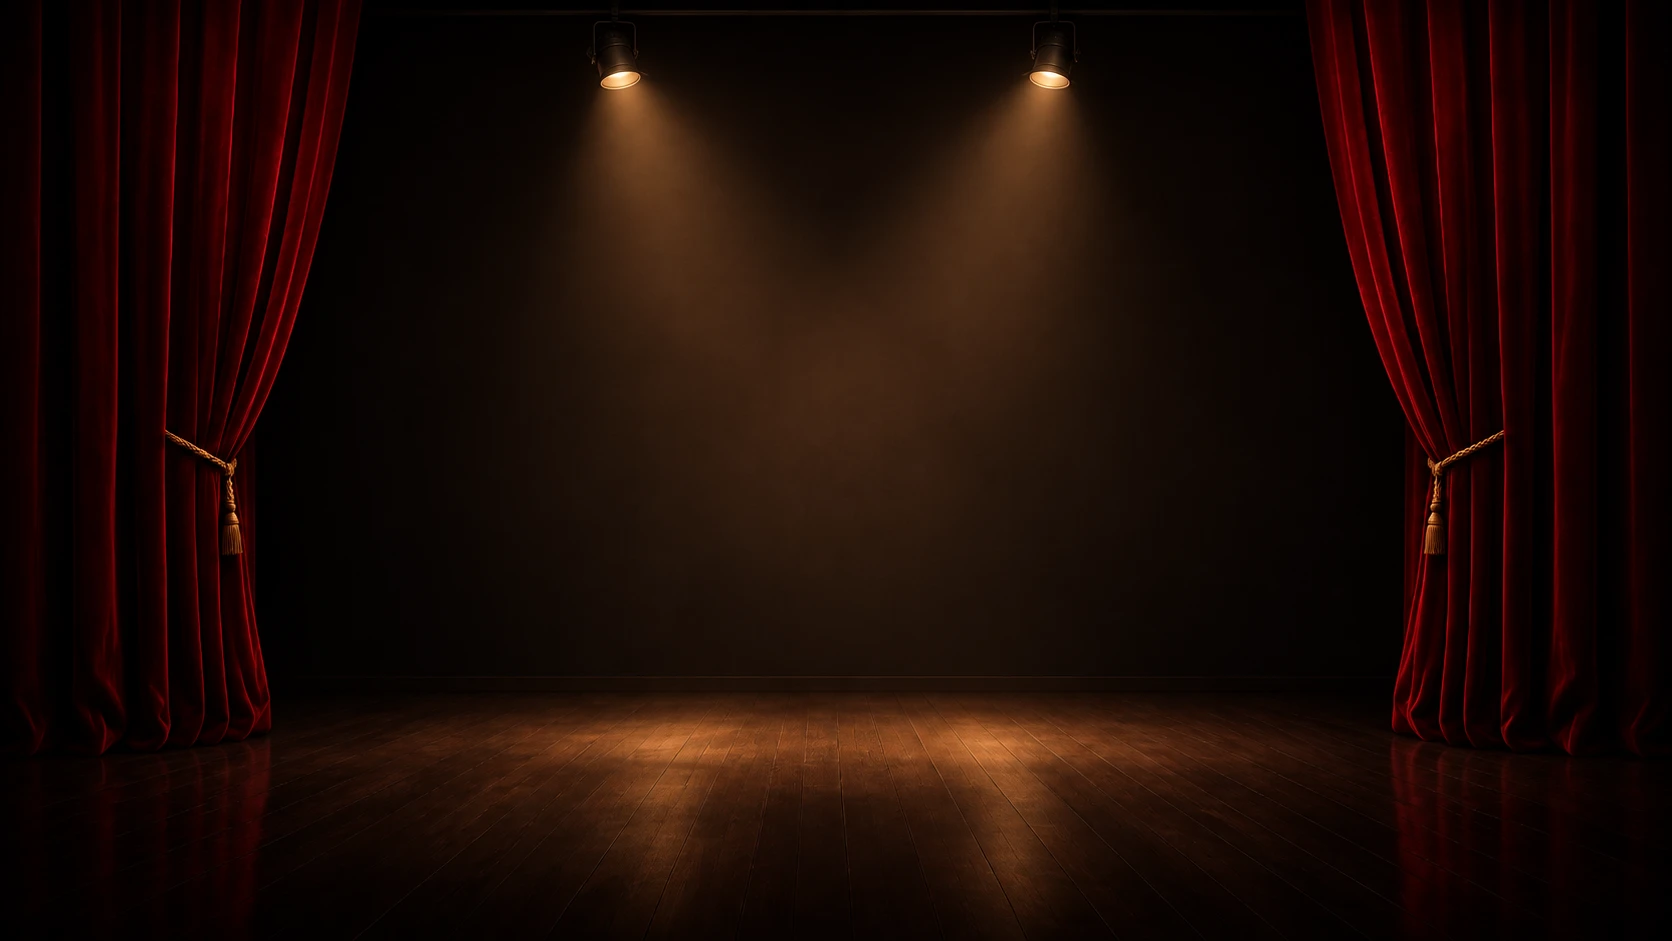
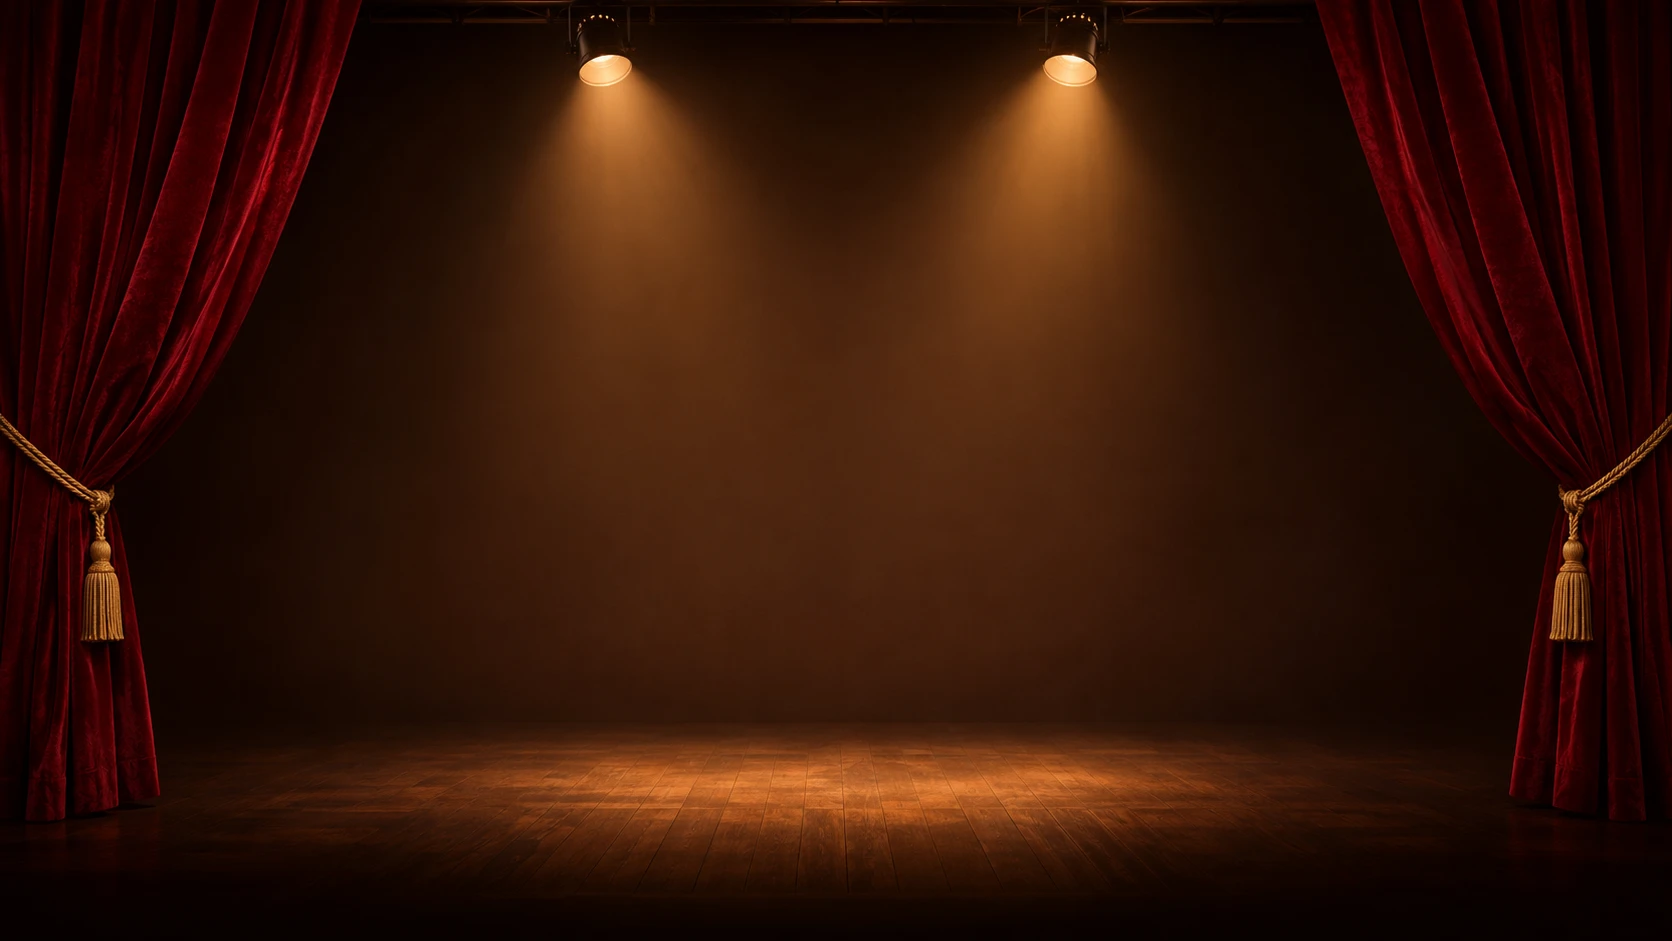
v150: 공개 플레이 주소에 게임 파일 올리기

diff --git a/js/ui.js b/js/ui.js
@@ -730,11 +730,7 @@ function dreamLine(s) {
   return d === '없음' ? '장래희망은 없었다' : `장래희망은 ${josa(d, '이가')} 되는 것이었다`;
 }
 // ───── 인생 결산 창 (12-5) ─────
-// 가운데 정렬 배치(예전 시안 C)에 밝은 색과 무대의 막을 입혔다. 색 조합만 다른 시안 세 가지 (A 붉은 막 · B 푸른 막 · C 보랏빛 막). 사용자가 고르면 나머지는 지운다
-// 머리(이름 · 칭호 · 주 직업 테마) → 숫자 → 해마다 그래프 → 대표작 → 트로피 선반 → 걸어온 길(세로 줄) → 인연 → 자녀
-// P 사진 무대(v149): 사용자가 준 무대 사진(img/ending/stage.webp)을 머리에 그대로 쓰고, 아래는 무대 바닥에서 이어지는 어두운 바탕
-const END_STYLES = [['P', '사진 무대'], ['A', '붉은 막'], ['B', '푸른 막'], ['C', '보랏빛 막']];
-function endStyle() { if (!UI.endStyle) { try { UI.endStyle = localStorage.getItem('celebLife.endStyle2') || 'P'; } catch (e) { UI.endStyle = 'P'; } } return UI.endStyle; }
+// 모양은 '사진 무대' 하나로 정했다 (v150, 사용자 결정): 사용자가 만든 무대 그림(img/ending/stage.webp)을 머리에 깔고, 아래는 무대 바닥에서 이어지는 어두운 바탕에 금빛 글씨
 // 그래프 자료: 해마다 기록이 있으면 그것, 없으면(예전 세이브) 작품 수입으로 번 돈만 어림한다
 function endYears(s) {
   // 팬도 번 돈도 없던 어린 시절은 그래프에서 뺀다 (처음 무언가 생기기 바로 전 해부터)
@@ -777,7 +773,7 @@ function showEnding(preview) {
   else if (preview !== 'keep') UI.endPrev = null;
   const ep = s.ended || UI.endPrev;
   if (!ep) return;
-  const p = me(s), st = endStyle(), M = endMain(s), handoff = ep.kind === 'handoff', pv = !!ep.preview;
+  const p = me(s), M = endMain(s), handoff = ep.kind === 'handoff', pv = !!ep.preview;
   // 아이가 태어나자마자 넘어간 경우에는 그 아이로만 이어 할 수 있다
   const heirs = ep.heir ? kids(s).filter(k => k.id === ep.heir) : kids(s);
   const jobs = new Set((s.careerLog || []).map(c => c.id).concat(Object.keys(s.carOn || {}))).size;
@@ -785,9 +781,8 @@ function showEnding(preview) {
   const sub = [M && ep.kind !== 'fail' ? `${M.ic} ${M.n}${CAREERS[M.id].title && CAREERS[M.id].title(s, s.tracks[M.id]) ? ' · ' + CAREERS[M.id].title(s, s.tracks[M.id]) : ''}` : '', dreamLine(s)].filter(Boolean).join(' / ');
   const years = pv ? `${s.birthYear}년생 · 지금 ${age(s)}세 (지금 은퇴한다면)` : `${s.birthYear}년생 · ${handoff ? `${ep.retireAge}세에 아이에게 넘김` : `${ep.retireAge}세 ${ep.kind === 'fail' ? '꿈을 접음' : '은퇴'} · ${ep.deathAge}세에 세상을 떠남`}`;
   const badges = endBadges(s);
-  let h = `<div class="en-pick"><span>시안</span>${END_STYLES.map(([k, n]) => `<button class="${k === st ? 'on' : ''}" data-endstyle="${k}">${k} ${n}</button>`).join('')}</div>`;
-  h += `<div class="en en-cur cv-${st} th-${ep.kind === 'fail' ? 'none' : M ? M.cat : 'none'} k-${ep.kind}">`;
-  h += `<header class="en-hero"><i class="en-val"></i><i class="en-drape l"></i><i class="en-drape r"></i><div class="en-kicker">${handoff ? '이야기를 넘기며' : '인생 결산'}</div><div class="en-name">${U.esc(p.name)}</div><div class="en-title">${U.esc(title)}</div>${sub ? `<div class="en-sub">${U.esc(sub)}</div>` : ''}<div class="en-years">${years}</div>`
+  let h = `<div class="en en-cur cv-P th-${ep.kind === 'fail' ? 'none' : M ? M.cat : 'none'} k-${ep.kind}">`;
+  h += `<header class="en-hero"><div class="en-kicker">${handoff ? '이야기를 넘기며' : '인생 결산'}</div><div class="en-name">${U.esc(p.name)}</div><div class="en-title">${U.esc(title)}</div>${sub ? `<div class="en-sub">${U.esc(sub)}</div>` : ''}<div class="en-years">${years}</div>`
     + (badges.length ? `<div class="en-badges">${badges.map(([ic, n]) => `<span>${ic} ${n}</span>`).join('')}</div>` : '') + (last ? `<div class="en-last">${U.esc(last)}</div>` : '') + `</header>`;
   h += `<div class="en-body"><div class="en-col1">`;
   const tiles = [['👥', '가장 많을 때 팬', fmtFans(s.peak.fans)], ['💰', '업계에서 번 돈', endWon(s.earned)], ['🏆', '받은 상', `${s.awards.length}개`], ['🎬', '작품', `${s.works.length}개`], ['💼', '해 본 일', `${jobs}가지`], ['👶', '자녀', `${kids(s).length}명`]];
@@ -1675,7 +1670,7 @@ function panelMenu() {
     <button class="btn" data-panel="pastecode">세이브 코드 붙여넣기</button>
     <button class="btn" id="m-export">세이브 파일로 내보내기 (PC에서만)</button>
     <button class="btn" id="m-import">세이브 파일 불러오기</button>
-    <button class="btn" data-endprev>인생 결산 창 미리 보기 (시안 고르기)</button>
+    <button class="btn" data-endprev>인생 결산 창 미리 보기</button>
     <button class="btn" data-logsize="1">인생 기록 글자 크게</button>
     <button class="btn" data-logsize="-1">인생 기록 글자 작게</button>
     <div class="lv-set"><span>실시간 창</span>${LIVE_MODES.map(([k, n]) => `<button class="btn sm${liveMode() === k ? ' primary' : ''}" data-livemode="${k}">${n}</button>`).join('')}</div>
@@ -1688,7 +1683,9 @@ function panelHall() {
   const h = getHall();
   let x = `<h2>지난 인생들</h2>`;
   if (!h.length) return x + `<div class="muted">아직 끝난 인생이 없다.</div>`;
-  for (const e of h) x += `<div class="npc"><div class="npc-h"><b>${U.esc(e.name)} <span class="muted" style="font-weight:500">${e.by}년생 · ${e.kind === 'handoff' ? `${e.retireAge}세에 아이에게 넘김` : `${e.retireAge}세 은퇴 · ${e.deathAge}세 사망`}</span></b><span class="rel">${U.esc(e.title)}</span></div><div class="npc-d">${(e.lines || []).slice(0, 3).map(U.esc).join(' ')}</div></div>`;
+  // 결산 창과 같은 모양의 작은 카드 (v150): 무대 그림 위에 이름 · 칭호, 아래에 숫자 셋
+  x += `<div class="hall-list">` + h.map(e => `<div class="hall-c"><div class="hall-top"><div class="hall-n">${U.esc(e.name)}</div>${e.title ? `<div class="hall-t">${U.esc(e.title)}</div>` : ''}<div class="hall-y">${e.by}년생 · ${e.kind === 'handoff' ? `${e.retireAge}세에 아이에게 넘김` : `${e.retireAge}세 ${e.kind === 'fail' ? '꿈을 접음' : '은퇴'} · ${e.deathAge}세에 떠남`}${e.gen > 1 ? ` · ${e.gen}대째` : ''}</div></div>`
+    + `<div class="hall-nums"><div><b>${fmtFans(e.peakFans || 0)}</b><span>가장 많을 때 팬</span></div><div><b>${endWon(e.earned || 0)}</b><span>번 돈</span></div><div><b>${e.awards || 0}개</b><span>받은 상</span></div></div></div>`).join('') + `</div>`;
   return x;
 }
 function panelHelp() {
@@ -1788,8 +1785,7 @@ document.addEventListener('click', e => {
   if (t.id === 'btn-newlife2' || t.id === 'end-new') { clearSave(); closeAll(); showBirth(); return; }
   if (t.id === 'end-title') { closeAll(); showTitle(); return; }
   if (t.dataset.endclose != null) { $('#modal').classList.add('hidden'); UI.endPrev = null; return; }
-  // 결산 창 시안 바꾸기 (고르시면 이 줄은 없앤다) · 메뉴의 미리 보기
-  if (t.dataset.endstyle) { UI.endStyle = t.dataset.endstyle; try { localStorage.setItem('celebLife.endStyle2', UI.endStyle); } catch (e) { } showEnding('keep'); return; }
+  // 메뉴의 결산 창 미리 보기
   if (t.dataset.endprev != null) { closePanel(); showEnding(true); return; }
   if (t.dataset.confirm != null) { $('#confirm').classList.add('hidden'); const f = UI.onConfirm; UI.onConfirm = null; if (t.dataset.confirm === '1' && f) f(); return; }
   // 특기 그만두기 (v101 · v102 이름 바뀜): 지금 하는 직업의 대표 특기는 못 그만둔다. 다시 배우면 1레벨부터

diff --git a/style.css b/style.css
@@ -1119,27 +1119,16 @@ kbd { font: inherit; font-size: 11px; font-weight: 700; padding: 1px 6px; border
 }
 
 
-/* ───── 인생 결산 창 (12-5): 뮤지컬 무대의 막. 밝은 바탕에 가운데 정렬. 색 조합만 다른 시안 세 가지 (cv-A 붉은 막 · cv-B 푸른 막 · cv-C 보랏빛 막) ───── */
+/* ───── 인생 결산 창 (12-5): 사진 무대 하나로 정함 (v150). 가운데 정렬. 색은 아래 .en.cv-P가 정한다 ───── */
 /* 주 직업 분야(th-*)는 머리 가운데의 그림 글자만 바꾼다. 색은 시안이 정한다 */
 #mcard.ending { max-width: 860px; }
-.en-pick { display: flex; gap: 6px; align-items: center; justify-content: flex-end; margin-bottom: 8px; font-size: 12px; color: var(--muted); }
-.en-pick button { border: 1px solid var(--line); background: var(--card); border-radius: 999px; padding: 3px 11px; font: inherit; font-size: 12px; font-weight: 700; cursor: pointer; color: var(--ink2); }
-.en-pick button.on { background: var(--violet); border-color: var(--violet); color: #fff; }
 .en { --mark: "🎤"; }
 .en.th-screen { --mark: "🎬"; } .en.th-stream { --mark: "📺"; } .en.th-ink { --mark: "✒"; } .en.th-teach { --mark: "🎓"; } .en.th-staff { --mark: "🎛"; } .en.th-biz { --mark: "🏢"; } .en.th-none { --mark: "🌙"; } .en.k-handoff { --mark: "👶"; }
 /* 색 조합: bg 바탕 · ink 글씨 · sub 옅은 글씨 · pap 카드 · ln 선 · acc 강조(금빛 계열) · c1 · c2 막의 어두운 주름과 밝은 주름 */
-.en.cv-A { --bg: #fff7ec; --ink: #3b2219; --sub: #9a7f6b; --pap: #fffdf8; --ln: #efdcc3; --acc: #b9861c; --c1: #8f1a2b; --c2: #c73650; --glow: #ffe6b8; }
-.en.cv-B { --bg: #f2f8ff; --ink: #1b2b47; --sub: #7b8ba8; --pap: #ffffff; --ln: #d5e3f5; --acc: #c0902a; --c1: #1d3d8c; --c2: #3f78d8; --glow: #dcecff; }
-.en.cv-C { --bg: #faf4ff; --ink: #2f2147; --sub: #9383ad; --pap: #ffffff; --ln: #e7daf7; --acc: #c06a9a; --c1: #5f37a8; --c2: #9a6fe2; --glow: #f3dcff; }
 .en-cur { background: var(--bg); color: var(--ink); border-radius: 18px; padding: 0 0 24px; overflow: hidden; }
 .en-hero { position: relative; overflow: hidden; text-align: center; padding: 78px 21% 34px; background: radial-gradient(56% 78% at 50% 34%, var(--glow) 0%, transparent 72%), linear-gradient(180deg, color-mix(in srgb, var(--bg) 82%, var(--c2)) 0%, var(--bg) 100%); }
 .en-hero::after { content: var(--mark); position: absolute; left: 50%; top: 58px; transform: translateX(-50%); font-size: 150px; line-height: 1; opacity: .09; pointer-events: none; }
 .en-hero > * { position: relative; z-index: 1; }
-/* 막: 양옆으로 묶어 둔 주름 막과 위의 물결 장식 */
-.en-hero > .en-drape { position: absolute; top: 0; bottom: 0; width: 19%; z-index: 2; background: repeating-linear-gradient(90deg, var(--c1) 0 8px, var(--c2) 8px 19px, color-mix(in srgb, var(--c1) 70%, #000) 19px 25px); box-shadow: inset 0 -30px 40px rgba(0, 0, 0, .18); }
-.en-hero > .en-drape.l { left: 0; clip-path: polygon(0 0, 100% 0, 96% 22%, 74% 50%, 42% 74%, 30% 100%, 0 100%); }
-.en-hero > .en-drape.r { right: 0; clip-path: polygon(0 0, 100% 0, 100% 100%, 70% 100%, 58% 74%, 26% 50%, 4% 22%); }
-.en-hero > .en-val { position: absolute; left: 0; right: 0; top: 0; height: 52px; z-index: 3; filter: drop-shadow(0 3px 0 var(--acc)) drop-shadow(0 6px 6px rgba(0, 0, 0, .18)); background: radial-gradient(ellipse 36px 30px at 50% 0, var(--c2) 0 98%, transparent 100%) 0 18px / 72px 34px repeat-x, linear-gradient(var(--c1), var(--c2)) 0 0 / 100% 20px no-repeat; }
 .en-kicker { font-size: 12px; font-weight: 800; letter-spacing: .28em; color: var(--acc); }
 .en-name { font-size: 46px; font-weight: 800; line-height: 1.15; margin-top: 6px; letter-spacing: .06em; }
 .en-title { display: inline-block; margin-top: 12px; padding: 5px 18px; border: 1.5px solid var(--acc); border-radius: 999px; color: var(--c1); background: color-mix(in srgb, var(--pap) 80%, transparent); font-size: 17px; font-weight: 800; letter-spacing: .06em; }
@@ -1193,7 +1182,7 @@ kbd { font: inherit; font-size: 11px; font-weight: 700; padding: 1px 6px; border
 .en-b.rival { border-color: #e0304a; } .en-b.pal { border-color: #19b58c; }
 .en-cur > .en-sec { padding: 0 20px; } .en-cur .heir-card { text-align: left; color: var(--ink); }
 @media (max-width: 760px) {
-  .en-hero { padding: 64px 15% 26px; } .en-hero > .en-drape { width: 13%; } .en-hero > .en-val { height: 42px; background-size: 52px 26px, 100% 16px; background-position: 0 14px, 0 0; }
+  .en-hero { padding: 64px 15% 26px; }
   .en-name { font-size: 32px; } .en-hero::after { font-size: 110px; }
   .en-n b { font-size: 14px; } .en-body { padding: 0 12px; }
 }
@@ -1202,7 +1191,6 @@ kbd { font: inherit; font-size: 11px; font-weight: 700; padding: 1px 6px; border
 .en.cv-P { --bg: #120b08; --ink: #f4e7d3; --sub: #b59d85; --pap: #1e130e; --ln: #3b271d; --acc: #e2b45c; --c1: #e9c57a; --c2: #ff9a7a; --glow: transparent; }
 .cv-P .en-hero { background: linear-gradient(180deg, transparent 62%, #120b08 100%), url("img/ending/stage.webp") center top / cover no-repeat, #120b08; padding: 15% 23% 9%; min-height: 0; color: #fff; text-shadow: 0 2px 14px rgba(0, 0, 0, .85); }
 .cv-P .en-hero::after { display: none; }
-.cv-P .en-hero > .en-drape, .cv-P .en-hero > .en-val { display: none; }
 .cv-P .en-kicker { color: #f0cf8c; }
 .cv-P .en-title { background: rgba(0, 0, 0, .45); border-color: #e2b45c; color: #f6dca0; text-shadow: none; }
 .cv-P .en-years { color: #d8c5ad; }
@@ -1214,3 +1202,15 @@ kbd { font: inherit; font-size: 11px; font-weight: 700; padding: 1px 6px; border
 .cv-P .en-tr { box-shadow: 0 6px 14px rgba(226, 180, 92, .14); }
 .cv-P .en-b i { color: #1b110c; }
 @media (max-width: 760px) { .cv-P .en-hero { padding: 20% 16% 10%; background-size: auto 100%, cover, auto; } }
+
+/* 지난 인생들 (v150): 결산 창과 같은 모양의 작은 카드 */
+.hall-list { display: grid; grid-template-columns: repeat(auto-fill, minmax(250px, 1fr)); gap: 10px; }
+.hall-c { border-radius: 14px; overflow: hidden; background: #120b08; color: #f4e7d3; box-shadow: var(--shadow); }
+.hall-top { text-align: center; padding: 30px 16% 16px; background: linear-gradient(180deg, transparent 55%, #120b08 100%), url("img/ending/stage.webp") center top / cover no-repeat, #120b08; text-shadow: 0 2px 10px rgba(0, 0, 0, .85); }
+.hall-n { font-size: 21px; font-weight: 800; letter-spacing: .05em; color: #fff; }
+.hall-t { display: inline-block; margin-top: 6px; padding: 2px 12px; border: 1px solid #e2b45c; border-radius: 999px; background: rgba(0, 0, 0, .45); color: #f6dca0; font-size: 12.5px; font-weight: 800; text-shadow: none; }
+.hall-y { margin-top: 6px; font-size: 11.5px; color: #d8c5ad; }
+.hall-nums { display: grid; grid-template-columns: repeat(3, minmax(0, 1fr)); gap: 1px; background: #3b271d; border-top: 1px solid #3b271d; }
+.hall-nums > div { background: #1e130e; padding: 8px 4px; text-align: center; }
+.hall-nums b { display: block; font-size: 13.5px; color: #e9c57a; white-space: nowrap; overflow: hidden; text-overflow: ellipsis; }
+.hall-nums span { font-size: 10.5px; color: #b59d85; }

diff --git a/index.html b/index.html
@@ -4,7 +4,7 @@
 <meta charset="utf-8">
 <meta name="viewport" content="width=device-width, initial-scale=1">
 <title>연예인으로 살아가기</title>
-<link rel="stylesheet" href="style.css?v=1794385250">
+<link rel="stylesheet" href="style.css?v=1794385717">
 </head>
 <body>
 <div id="app">
@@ -108,35 +108,35 @@
   <div id="toast" class="toast"></div>
   <input type="file" id="file-input" accept=".json,application/json" class="hidden">
 </div>
-<script src="js/util.js?v=1794385250"></script>
-<script src="js/data.js?v=1794385250"></script>
-<script src="js/skills.js?v=1794385250"></script>
-<script src="js/person.js?v=1794385250"></script>
-<script src="js/game.js?v=1794385250"></script>
-<script src="js/life.js?v=1794385250"></script>
-<script src="js/events.js?v=1794385250"></script>
-<script src="js/work.js?v=1794385250"></script>
-<script src="js/inbox.js?v=1794385250"></script>
-<script src="js/family.js?v=1794385250"></script>
-<script src="js/music.js?v=1794385250"></script>
-<script src="js/musicstaff.js?v=1794385250"></script>
-<script src="js/video.js?v=1794385250"></script>
-<script src="js/film.js?v=1794385250"></script>
-<script src="js/scandal.js?v=1794385250"></script>
-<script src="js/vidol.js?v=1794385250"></script>
-<script src="js/mcn.js?v=1794385250"></script>
-<script src="js/company.js?v=1794385250"></script>
-<script src="js/studio.js?v=1794385250"></script>
-<script src="js/dancer.js?v=1794385250"></script>
-<script src="js/anime.js?v=1794385250"></script>
-<script src="js/webnovel.js?v=1794385250"></script>
-<script src="js/illust.js?v=1794385250"></script>
-<script src="js/prof.js?v=1794385250"></script>
-<script src="js/tutor.js?v=1794385250"></script>
-<script src="js/marketer.js?v=1794385250"></script>
-<script src="js/npc.js?v=1794385250"></script>
-<script src="js/chparts.js?v=1794385250"></script>
-<script src="js/live.js?v=1794385250"></script>
-<script src="js/ui.js?v=1794385250"></script>
+<script src="js/util.js?v=1794385717"></script>
+<script src="js/data.js?v=1794385717"></script>
+<script src="js/skills.js?v=1794385717"></script>
+<script src="js/person.js?v=1794385717"></script>
+<script src="js/game.js?v=1794385717"></script>
+<script src="js/life.js?v=1794385717"></script>
+<script src="js/events.js?v=1794385717"></script>
+<script src="js/work.js?v=1794385717"></script>
+<script src="js/inbox.js?v=1794385717"></script>
+<script src="js/family.js?v=1794385717"></script>
+<script src="js/music.js?v=1794385717"></script>
+<script src="js/musicstaff.js?v=1794385717"></script>
+<script src="js/video.js?v=1794385717"></script>
+<script src="js/film.js?v=1794385717"></script>
+<script src="js/scandal.js?v=1794385717"></script>
+<script src="js/vidol.js?v=1794385717"></script>
+<script src="js/mcn.js?v=1794385717"></script>
+<script src="js/company.js?v=1794385717"></script>
+<script src="js/studio.js?v=1794385717"></script>
+<script src="js/dancer.js?v=1794385717"></script>
+<script src="js/anime.js?v=1794385717"></script>
+<script src="js/webnovel.js?v=1794385717"></script>
+<script src="js/illust.js?v=1794385717"></script>
+<script src="js/prof.js?v=1794385717"></script>
+<script src="js/tutor.js?v=1794385717"></script>
+<script src="js/marketer.js?v=1794385717"></script>
+<script src="js/npc.js?v=1794385717"></script>
+<script src="js/chparts.js?v=1794385717"></script>
+<script src="js/live.js?v=1794385717"></script>
+<script src="js/ui.js?v=1794385717"></script>
 </body>
 </html>
